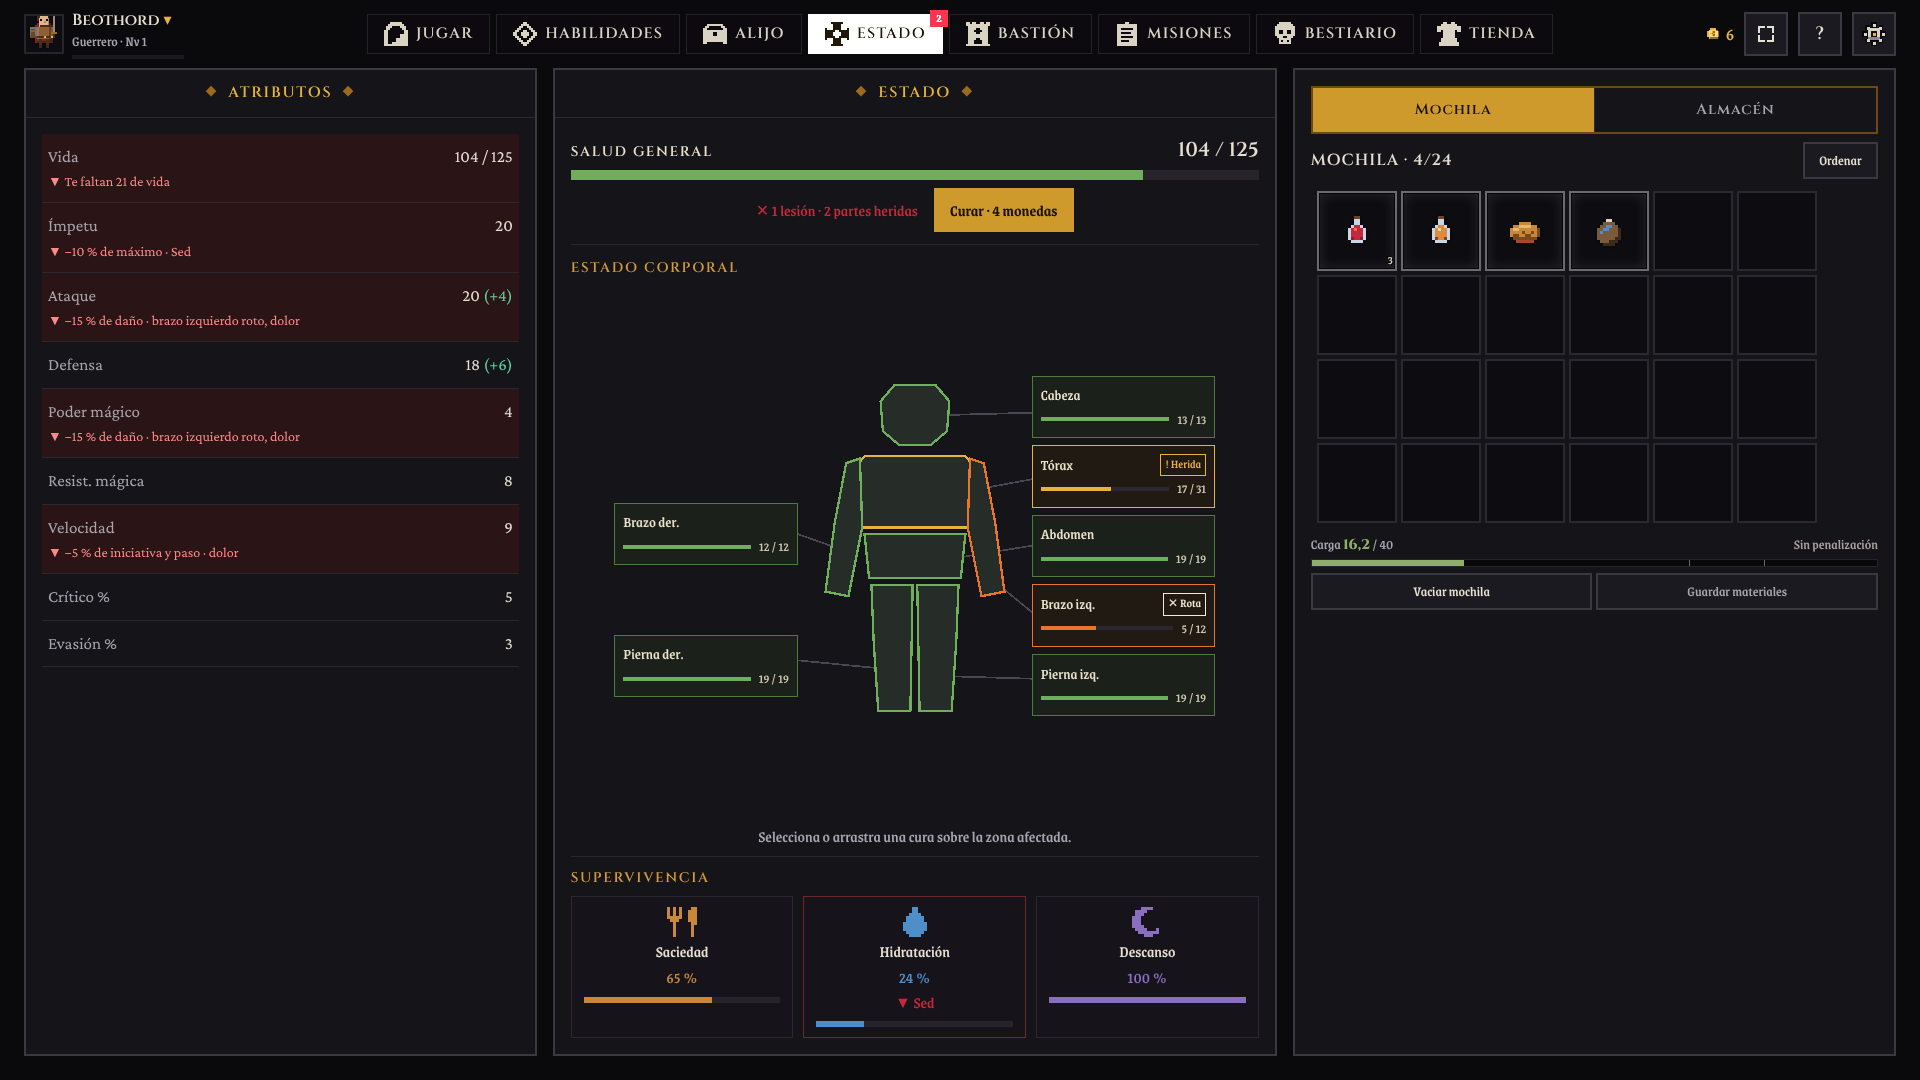
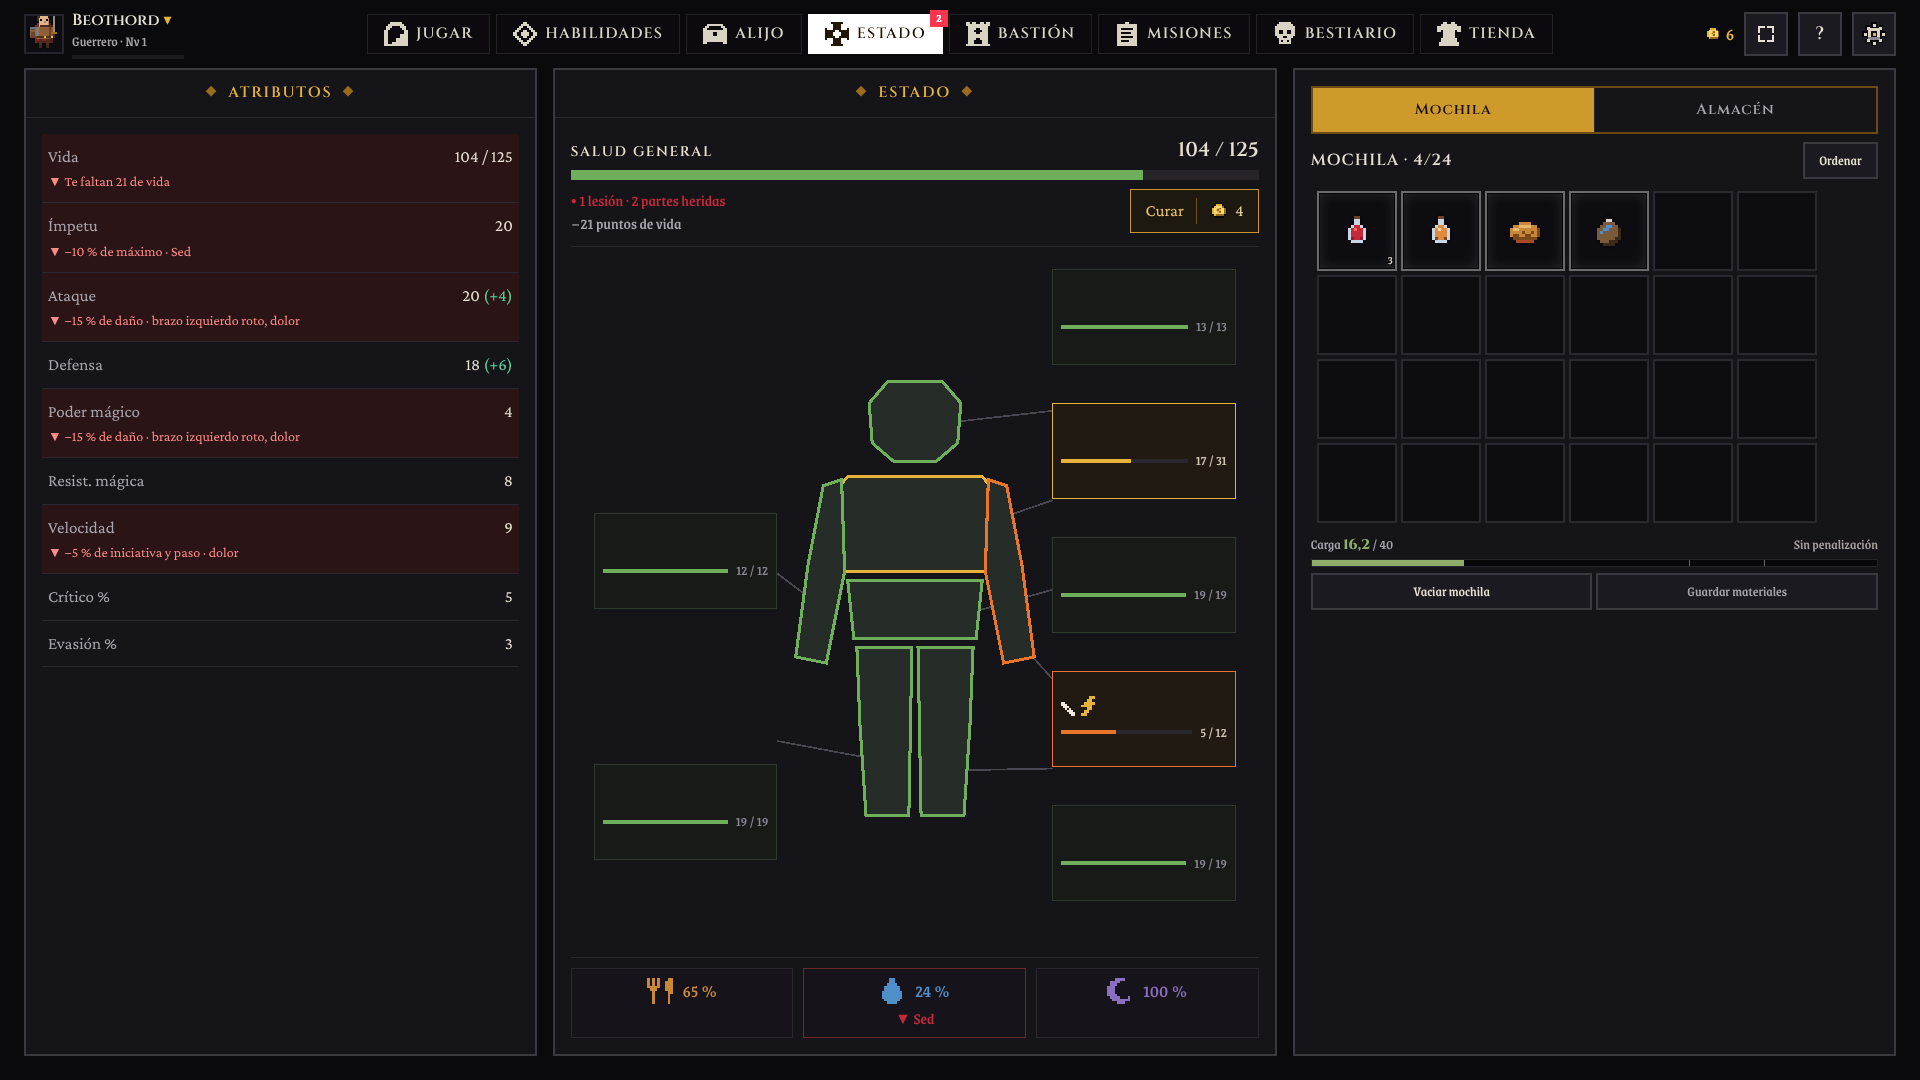
Gravevow (Vesrions 1.0.0.1)

diff --git a/src/game/ui/EstadoParts.tsx b/src/game/ui/EstadoParts.tsx
@@ -107,7 +107,7 @@ export function StatusTop({ body }: { body: Body }) {
   );
 }
 
-// Estado corporal: silueta plana (escala del lienzo 600 × 300) y una ficha por parte unida con una línea.
+// Estado corporal: silueta plana (coordenadas base de 600 × 300, ver K) y una ficha por parte unida con una línea.
 const SIL: Record<Region, string> = {
   head: '282,8 318,8 330,22 328,48 314,60 286,60 272,48 270,22',
   thorax: '256,70 344,70 356,84 350,132 250,132 244,84',
@@ -117,42 +117,81 @@ const SIL: Record<Region, string> = {
   legR: '262,182 298,182 296,292 268,292 264,232',
   legL: '302,182 338,182 336,232 332,292 304,292',
 };
+// Lienzo de 600 × 400 (27/11): la silueta se dibuja con las coordenadas de 600 × 300 y se agranda ×4/3 desde el centro.
+const K = 4 / 3, SX = (x: number) => 300 + (x - 300) * K, SY = (y: number) => y * K;
 const CARD: Record<Region, { x: number; y: number; to: [number, number] }> = {
-  head: { x: 402, y: 6, to: [328, 34] }, thorax: { x: 402, y: 64, to: [348, 100] }, abdomen: { x: 402, y: 122, to: [340, 158] },
-  armL: { x: 402, y: 180, to: [368, 178] }, legL: { x: 402, y: 238, to: [334, 262] },
-  armR: { x: 38, y: 112, to: [232, 150] }, legR: { x: 38, y: 222, to: [280, 256] },
+  head: { x: 420, y: 8, to: [SX(328), SY(34)] }, thorax: { x: 420, y: 86, to: [SX(348), SY(100)] }, abdomen: { x: 420, y: 164, to: [SX(340), SY(158)] },
+  armL: { x: 420, y: 242, to: [SX(368), SY(178)] }, legL: { x: 420, y: 320, to: [SX(334), SY(262)] },
+  armR: { x: 20, y: 150, to: [SX(232), SY(150)] }, legR: { x: 20, y: 296, to: [SX(280), SY(256)] },
 };
-const CW = 160, CH = 52;
-const CARD_NAME: Record<Region, string> = { head: 'Cabeza', thorax: 'Tórax', abdomen: 'Abdomen', armR: 'Brazo der.', armL: 'Brazo izq.', legR: 'Pierna der.', legL: 'Pierna izq.' };
+const CW = 160, CH = 56;
 
-/** Cuerpo con fichas: tocar una ficha (o su parte) con una cura elegida la aplica; arrastrar una cura encima, también. */
+// Iconos de lesión en pixel art (27/11): gota (sangrado, con 1 o 2 marcas), hueso (fractura), rayo (dolor), inutilizada y operada.
+const ICO = {
+  bleed: ['...X...', '..XXX..', '.XXXXX.', 'XXXXXXX', 'XXXXXXX', '.XXXXX.', '..XXX..'],
+  frac: ['XX.....', 'XXX....', '.XXX...', '..X.X..', '...XXX.', '....XXX', '.....XX'],
+  pain: ['...XX', '..XX.', '.XXXX', 'XXXX.', '..XX.', '.XX..', 'XX...'],
+  off: ['..XXX..', '.X...X.', 'X...X.X', 'X..X..X', 'X.X...X', '.X...X.', '..XXX..'],
+  op: ['...X...', '...X...', '...X...', 'XXXXXXX', '...X...', '...X...', '...X...'],
+  plus: ['..XXX..', '..XXX..', 'XXXXXXX', 'XXXXXXX', 'XXXXXXX', '..XXX..', '..XXX..'],
+};
+/** Centro de cada parte en el lienzo (para la cruz «+» de la cura elegida). */
+const MID: Record<Region, [number, number]> = { head: [300, 34], thorax: [300, 100], abdomen: [300, 157], armR: [240, 140], armL: [360, 140], legR: [281, 240], legL: [319, 240] };
+
+/** Lesiones de una parte, en orden, con su icono y color (el dolor solo si no lo calma un analgésico). */
+function lesionsOf(body: Body, r: Region): { k: keyof typeof ICO; name: string; color: string; grade?: number }[] {
+  const p = body.parts[r];
+  const out: { k: keyof typeof ICO; name: string; color: string; grade?: number }[] = [];
+  if (p.bleed) out.push({ k: 'bleed', name: p.bleed === 2 ? 'Sangrado grave' : 'Sangrado leve', color: '#e0605a', grade: p.bleed });
+  if (p.fracture) out.push({ k: 'frac', name: 'Fractura', color: '#f2ead8' });
+  if (isDisabled(body, r)) out.push({ k: 'off', name: 'Inutilizada', color: '#a8a0b0' });
+  if ((p.fracture || isDisabled(body, r)) && !body.painFree) out.push({ k: 'pain', name: 'Dolor', color: '#e8b33a' });
+  if (p.operated) out.push({ k: 'op', name: 'Operada', color: '#8fc0e0' });
+  return out;
+}
+
+/** Cuerpo: silueta y una ficha sin nombre por parte (iconos de lesión, barra y vida). Con una cura elegida o arrastrada,
+ *  las partes donde sirve llevan una cruz «+» y borde dorado; tocar la ficha o la parte la aplica. El nombre y el detalle,
+ *  en el tooltip y en la etiqueta accesible. */
 export function BodyMap({ body, shown, onPick }: { body: Body; shown: string | null; onPick: (r: Region) => void }) {
-  const drop = (r: Region) => (shown ? (usefulOn(body, shown, r) ? 'yes' : 'no') : null);
+  const ok = (r: Region) => !!shown && usefulOn(body, shown, r);
   return (
     <div className="bmap" data-testid="body-map">
-      <svg viewBox="0 0 600 300" className="bmap-svg" shapeRendering="crispEdges" aria-hidden>
+      <svg viewBox="0 0 600 400" className="bmap-svg" shapeRendering="crispEdges" aria-hidden>
         {REGIONS.map((r) => {
-          const c = CARD[r], left = c.x < 300;
-          const d = drop(r);
+          const c = CARD[r], left = c.x < 300, on = ok(r);
           return (
-            <g key={r} className={d ? `bmap-${d}` : undefined}>
-              <line x1={left ? c.x + CW : c.x} y1={c.y + CH / 2} x2={c.to[0]} y2={c.to[1]} stroke={d === 'yes' ? '#e8b33a' : '#4a4652'} strokeWidth={1.5} />
-              <polygon points={SIL[r]} fill={d === 'yes' ? '#3a2f17' : '#262c27'} stroke={isDisabled(body, r) ? '#6b6470' : regionColor(body, r)} strokeWidth={2} onClick={() => onPick(r)} style={{ cursor: 'pointer', pointerEvents: 'all' }} />
+            <g key={r}>
+              <line x1={left ? c.x + CW : c.x} y1={c.y + CH / 2} x2={c.to[0]} y2={c.to[1]} stroke={on ? '#e8b33a' : '#4a4652'} strokeWidth={1.5} />
+              <polygon transform={`translate(300 0) scale(${K}) translate(-300 0)`} points={SIL[r]} fill={on ? '#3a2f17' : '#262c27'} stroke={on ? '#e8b33a' : isDisabled(body, r) ? '#6b6470' : regionColor(body, r)} strokeWidth={on ? 3 : 2} onClick={() => onPick(r)} style={{ cursor: 'pointer', pointerEvents: 'all' }} />
             </g>
           );
         })}
+        {REGIONS.filter(ok).map((r) => (
+          <g key={r} transform={`translate(${SX(MID[r][0]) - 12} ${SY(MID[r][1]) - 12}) scale(3.4)`} style={{ pointerEvents: 'none' }}>
+            {ICO.plus.flatMap((row, y) => [...row].map((ch, x) => (ch === 'X' ? <rect key={`${x}-${y}`} x={x} y={y} width={1} height={1} fill="#e8b33a" /> : null)))}
+          </g>
+        ))}
       </svg>
       {REGIONS.map((r) => {
         const c = CARD[r], p = body.parts[r], cap = regionCap(body, r), max = regionMaxes(body.total)[r];
-        const w = regionWord(body, r), d = drop(r);
+        const les = lesionsOf(body, r);
+        const hurt = les.length > 0 || p.hp < max;
+        const on = ok(r), d = shown ? (on ? 'yes' : 'no') : null;
+        const tip = [`${REGION_NAME[r]}: ${p.hp} / ${cap}`, ...les.map((l) => l.name)].join(' · ');
         return (
-          <button key={r} type="button" className={`bmap-card ${w.cls !== 'ok' ? 'hurt' : ''} ${d === 'yes' ? 'drop-yes' : d === 'no' ? 'drop-no' : ''}`}
-            style={{ left: `${(c.x / 600) * 100}%`, top: `${(c.y / 300) * 100}%`, width: `${(CW / 600) * 100}%`, height: `${(CH / 300) * 100}%`, ['--rc' as string]: regionColor(body, r) }}
-            data-drop={JSON.stringify({ type: 'body', region: r })} onClick={() => onPick(r)}
-            aria-label={`${REGION_NAME[r]}: ${p.hp} de ${cap}. ${w.word}`} data-testid={`body-row-${r}`}>
-            <span className="bmap-name">{CARD_NAME[r]}{w.cls !== 'ok' && <span className={`doll-word ${w.cls}`} data-testid={`body-state-${r}`} title={w.word}>{w.ico}<span className="dw-t"> {w.word}</span></span>}</span>
+          <button key={r} type="button" className={`bmap-card ${hurt ? 'hurt' : 'ok'} ${d === 'yes' ? 'drop-yes' : d === 'no' ? 'drop-no' : ''}`}
+            style={{ left: `${(c.x / 600) * 100}%`, top: `${(c.y / 400) * 100}%`, width: `${(CW / 600) * 100}%`, height: `${(CH / 400) * 100}%`, ['--rc' as string]: regionColor(body, r) }}
+            data-drop={JSON.stringify({ type: 'body', region: r })} onClick={() => onPick(r)} title={tip} aria-label={tip} data-testid={`body-row-${r}`}>
+            <span className="bmap-ico" data-testid={`body-state-${r}`} data-state={regionWord(body, r).cls}>
+              {les.map((l) => (
+                <span key={l.k} className="bmap-l" title={l.name}>
+                  <PixelIcon rows={ICO[l.k]} size={14} color={l.color} label={l.name} />
+                  {l.grade && <span className="bmap-g">{[1, 2].map((g) => <i key={g} style={{ background: g <= l.grade! ? l.color : '#3a3741' }} />)}</span>}
+                </span>
+              ))}
+            </span>
             <span className="bmap-row"><span className="bmap-bar"><i style={{ width: `${(p.hp / Math.max(1, max)) * 100}%`, background: regionColor(body, r) }} /></span><span className="bmap-hp">{p.hp} / {cap}</span></span>
-            {d === 'yes' && <span className="doll-apply" aria-hidden>◆ Aplicar aquí</span>}
           </button>
         );
       })}

diff --git a/mockups/estado-silueta/mock.html b/mockups/estado-silueta/mock.html
@@ -1,0 +1,63 @@
+<!DOCTYPE html><html lang="es"><head><meta charset="utf-8"><title>Estado · silueta</title>
+<link rel="stylesheet" href="/node_modules/@fontsource/cinzel/index.css"><link rel="stylesheet" href="/node_modules/@fontsource/grenze/index.css">
+<style>
+*{box-sizing:border-box;margin:0}body{background:#0a090c;color:#e9e1cc;font-family:Grenze,Georgia,serif;display:flex;justify-content:center;align-items:flex-start;padding:16px}
+.panel{border:2px solid #2a2730;background:#121015;width:720px;padding:18px 20px;display:flex;flex-direction:column;gap:12px}
+.ph{font-family:Cinzel;letter-spacing:.14em;color:#e8b33a;text-align:center;font-size:16px;margin:-4px 0 6px}
+.cap{font-family:Cinzel;letter-spacing:.12em;font-size:15px}
+.h{display:flex;justify-content:space-between;align-items:baseline}.big{font-family:Cinzel;font-size:22px}
+.hp{height:10px;background:#26232a}.hp i{display:block;height:100%;background:#6fae5a}
+.h2{display:flex;justify-content:space-between;align-items:center;min-height:44px}
+.red{color:#e0605a}.mut{color:#a8a090;font-size:14px}
+.cure{display:inline-flex;align-items:center;gap:12px;min-height:44px;padding:0 14px;background:#1d1910;border:1px solid #c9952e;color:#e8c46a;font-size:17px}
+.sep{width:1px;align-self:stretch;margin:8px 0;background:#6b5420}
+.map{position:relative;height:420px;border-top:1px solid #2a2730;border-bottom:1px solid #2a2730}
+svg.sil{position:absolute;left:50%;top:10px;transform:translateX(-50%);height:400px}
+.tag{position:absolute;display:flex;flex-direction:column;align-items:center;gap:3px;transform:translate(-50%,-50%);pointer-events:none}
+.tag b{font-size:16px}.bar{width:46px;height:4px;background:#2a2730}.bar i{display:block;height:100%}
+.icons{display:flex;gap:6px}.ico{display:flex;flex-direction:column;align-items:center;gap:2px}.grade{display:flex;gap:2px}.grade i{width:5px;height:3px}
+.cross{position:absolute;transform:translate(-50%,-50%);width:26px;height:26px}
+.tip{position:absolute;width:250px;border:2px solid #e8b33a;background:#16130e;padding:10px 12px;font-size:15px;display:flex;flex-direction:column;gap:6px}
+.tip .t{display:flex;justify-content:space-between;font-family:Cinzel;color:#e8b33a;letter-spacing:.08em}
+.tip hr{border:none;border-top:1px solid #2a2730}
+.needs{display:grid;grid-template-columns:repeat(3,1fr);gap:10px}.need{border:1px solid #2a2730;background:#16141a;display:flex;justify-content:center;align-items:center;gap:10px;padding:8px;font-size:17px}
+/* móvil: panel central de 844 × 390 */
+body.movil .panel{width:420px;padding:8px 10px;gap:4px}body.movil .ph{display:none}body.movil .big{font-size:16px}body.movil .cap{font-size:12px}
+body.movil .hp{height:6px}body.movil .h2{font-size:13px}body.movil .cure{font-size:14px;padding:0 10px;gap:8px}
+body.movil .map{height:186px}body.movil svg.sil{height:176px;top:5px}body.movil .tag b{font-size:11px}body.movil .bar{width:30px;height:3px}
+body.movil .need{padding:2px;font-size:13px}body.movil .tip{width:190px;font-size:12px;padding:6px 8px;gap:3px}
+</style></head><body><div id="app"></div><script>
+const q=new URLSearchParams(location.search),caso=q.get('caso')||'herido',mov=q.get('disp')==='movil';if(mov)document.body.classList.add('movil');
+const PX=(rows,c,s)=>{const w=rows[0].length;let r='';rows.forEach((row,y)=>[...row].forEach((ch,x)=>{if(ch!=='.')r+=`<rect x="${x}" y="${y}" width="1" height="1" fill="${ch==='W'?'#f2ead8':c}"/>`}));return `<svg width="${w*s}" height="${rows.length*s}" viewBox="0 0 ${w} ${rows.length}" shape-rendering="crispEdges">${r}</svg>`};
+const DROP=['...X...','..XXX..','.XXXXX.','XXXXXXX','XXXXXXX','.XXXXX.','..XXX..'];
+const BONE=['XX.....','XXX....','.XXX...','..X.X..','...XXX.','....XXX','.....XX'];
+const BOLT=['...XX','..XX.','.XXXX','XXXX.','..XX.','.XX..','XX...'];
+const CROSS=['..XXX..','..XWX..','XXXWXXX','XWWWWWX','XXXWXXX','..XWX..','..XXX..'];
+const SIL={head:'282,8 318,8 330,22 328,48 314,60 286,60 272,48 270,22',thorax:'256,70 344,70 356,84 350,132 250,132 244,84',abdomen:'256,138 344,138 340,176 260,176',armR:'240,76 252,72 254,132 242,192 222,188 230,128',armL:'360,76 348,72 346,132 358,192 378,188 370,128',legR:'262,182 298,182 296,292 268,292 264,232',legL:'302,182 338,182 336,232 332,292 304,292'};
+const MAX={head:13,thorax:31,abdomen:19,armR:12,armL:12,legR:19,legL:19};
+const NAME={head:'Cabeza',thorax:'Tórax',abdomen:'Abdomen',armR:'Brazo derecho',armL:'Brazo izquierdo',legR:'Pierna derecha',legL:'Pierna izquierda'};
+const sano=caso==='sano';
+const hp=sano?{...MAX}:{head:13,thorax:17,abdomen:19,armR:3,armL:12,legR:11,legL:19};
+const W=sano?{}:{armR:{bleed:2,frac:1,pain:1},thorax:{bleed:1},legR:{frac:1,pain:1}};
+const col=(r)=>{const p=hp[r]/MAX[r];return p>.75?'#6fae5a':p>.45?'#e8b33a':p>.2?'#e8752b':'#d23a3a'};
+const fill=(r)=>{const p=hp[r]/MAX[r];return p>.75?'#262c27':p>.45?'#3a3218':p>.2?'#3a2418':'#3a1a1a'};
+const cura=caso==='cura'?['armR','legR']:[];// férula: solo donde hay fractura
+const hover=caso==='detalle'?'armR':null;
+// posición de la marca de cada parte (en unidades 600×300 del lienzo)
+const AT={head:[300,34],thorax:[300,102],abdomen:[300,157],armR:[208,132],armL:[392,132],legR:[248,250],legL:[352,250]};
+const H=mov?176:400,SC=H/300,OX=0;
+let svg=`<svg class="sil" viewBox="210 0 180 300" shape-rendering="crispEdges">`;
+for(const r in SIL){const on=cura.includes(r),dim=cura.length&&!on;svg+=`<polygon points="${SIL[r]}" fill="${fill(r)}" stroke="${on||hover===r?'#e8b33a':col(r)}" stroke-width="${on||hover===r?3:2}" opacity="${dim?.4:1}"/>`}
+svg+='</svg>';
+const mapW=mov?400:676;const sx=(x)=>mapW/2+(x-300)*SC,sy=(y)=>(mov?5:10)+y*SC;
+let tags='';
+for(const r in SIL){const hurt=hp[r]<MAX[r]||W[r];if(!hurt)continue;const [x,y]=AT[r];const w=W[r]||{};const s=mov?2:3;
+ let ic='';if(w.bleed)ic+=`<span class="ico">${PX(DROP,'#e0605a',s)}<span class="grade">${[1,2].map(g=>`<i style="background:${g<=w.bleed?'#e0605a':'#3a3741'}"></i>`).join('')}</span></span>`;
+ if(w.frac)ic+=`<span class="ico">${PX(BONE,'#f2ead8',s)}</span>`;if(w.pain)ic+=`<span class="ico">${PX(BOLT,'#e8b33a',s)}</span>`;
+ tags+=`<div class="tag" style="left:${mov?mapW/2+(x-300)*SC*1.9:sx(x)}px;top:${sy(y)}px"><b style="color:${col(r)}">${hp[r]}/${MAX[r]}</b><span class="bar"><i style="width:${hp[r]/MAX[r]*100}%;background:${col(r)}"></i></span><span class="icons">${ic}</span></div>`}
+for(const r of cura){const c={armR:[236,170],legR:[282,270]}[r];tags+=`<div class="cross" style="left:${sx(c[0])}px;top:${sy(c[1])}px">${PX(CROSS,'#e8b33a',mov?3:4)}</div>`}
+if(hover){tags+=`<div class="tip" style="left:${mov?6:40}px;top:${mov?10:150}px"><div class="t"><span>BRAZO DERECHO</span><span class="red">3 / 12</span></div><div class="hp" style="height:4px"><i style="width:25%;background:#d23a3a"></i></div><hr><span class="red">${PX(DROP,'#e0605a',2)} Sangrado grave</span><span>${PX(BONE,'#f2ead8',2)} Fractura</span><span style="color:#e8b33a">${PX(BOLT,'#e8b33a',2)} Dolor</span><hr><span class="red">▼ −15 % de daño (fractura y dolor)</span><span class="mut">Curas: torniquete o hemostático · férula</span></div>`}
+const cab=`<div class="h"><span class="cap">SALUD GENERAL</span><span class="big">${sano?'125 / 125':'98 / 125'}</span></div><div class="hp"><i style="width:${sano?100:78}%"></i></div>`+(sano?'':`<div class="h2"><div><div class="red">● 3 lesiones · 3 partes heridas</div><div class="mut">−27 puntos de vida</div></div><span class="cure">Curar<span class="sep"></span>● 7</span></div>`);
+const needs=`<div class="needs"><div class="need" style="color:#c9873a">🍴 100 %</div><div class="need" style="color:#4f8fc9">💧 24 %</div><div class="need" style="color:#8a6fc0">☾ 70 %</div></div>`;
+document.getElementById('app').innerHTML=`<div class="panel">${mov?'':'<div class="ph">◆ ESTADO ◆</div>'}${cab}<div class="map">${svg}${tags}</div>${needs}</div>`;
+</script></body></html>

diff --git a/src/game/game.css b/src/game/game.css
@@ -1777,11 +1777,14 @@ div.hb-acard{cursor:default}
 .estado-cure-price{display:inline-flex;align-items:center;gap:6px;color:#f0d9a0}
 .estado-cure.off{background:#17151a;border-color:#3a3741;color:#8c8693;cursor:not-allowed}.estado-cure.off .estado-cure-sep{background:#3a3741}.estado-cure.off .estado-cure-price{color:#e0605a}
 .estado-doll{min-height:200px;padding:8px 0 14px}
-.bmap{position:relative;aspect-ratio:2/1;height:100%;max-height:360px;max-width:100%}
+.bmap{position:relative;aspect-ratio:3/2;height:100%;max-width:100%}
 .bmap-svg{position:absolute;inset:0;width:100%;height:100%}
 .bmap-card{position:absolute;display:flex;flex-direction:column;justify-content:center;gap:3px;padding:2px 8px;background:#1b211a;border:1px solid #4d7a3d;color:#e9e1cc;font:inherit;text-align:left;min-height:0;cursor:pointer}
 .bmap-card:hover{filter:brightness(1.15)}.bmap-card.hurt{border-color:var(--rc);background:#211a12}
-.bmap-card.drop-yes{border:2px dashed #e8b33a;background:#2a2112;box-shadow:0 0 0 2px #e8b33a55}.bmap-card.drop-no{opacity:.35}
+.bmap-card.ok{border-color:#2f3a2c;background:#171a17}.bmap-card.ok .bmap-hp{color:#8c8693}
+.bmap-card.drop-yes{border:1px solid #e8b33a;background:#2a2112}
+.bmap-ico{display:flex;gap:6px;align-items:flex-end;min-height:14px}.bmap-l{display:inline-flex;flex-direction:column;align-items:center;gap:1px}
+.bmap-g{display:flex;gap:1px}.bmap-g i{width:4px;height:2px}
 .bmap-name{display:flex;justify-content:space-between;gap:6px;font-size:15px;white-space:nowrap}
 .bmap-row{display:flex;align-items:center;gap:8px}.bmap-bar{flex:1;height:4px;background:#2a2730}.bmap-bar i{display:block;height:100%}
 .bmap-hp{font-size:13px;color:#cfc6b2;white-space:nowrap}
@@ -1805,3 +1808,5 @@ div.hb-acard{cursor:default}
 .is-touch .bmap-card::after{content:'';position:absolute;inset:-4px 0}
 .bmap-card{container-type:inline-size}.bmap-name{min-width:0}
 @container (max-width:150px){.dw-t{display:none}}
+.estado-phone .bmap-ico{min-height:9px;gap:3px}.estado-phone .bmap-ico svg{width:9px;height:9px}.estado-phone .bmap-g i{width:3px}
+.bmap-card{gap:6px}.bmap-hp{font-size:14px}

diff --git a/mockups/estado-silueta/index.html b/mockups/estado-silueta/index.html
@@ -1,0 +1,9 @@
+<!DOCTYPE html><html lang="es"><head><meta charset="utf-8"><title>Estado · silueta (mockup)</title>
+<style>body{background:#0a090c;color:#e9e1cc;font-family:Georgia,serif;padding:24px;max-width:1500px;margin:auto}h2{color:#e8b33a;margin-top:28px}img{border:1px solid #333;margin:6px 12px 6px 0;vertical-align:top}p{color:#cfc6b2;max-width:900px}</style></head><body>
+<h1>ESTADO · silueta sin fichas (propuesta 2 adaptada)</h1>
+<p>Partes sanas en verde y sin números. Partes heridas: color según su vida, valor, barrita e iconos de lesión (gota con 1 o 2 marcas = sangrado leve o grave; hueso = fractura; rayo = dolor). Una cura elegida pone una cruz solo en las partes donde sirve. Tocar o pasar el ratón por una parte abre su detalle. Mockup interactivo: <code>mock.html?caso=sano|herido|cura|detalle&amp;disp=escritorio|movil</code>.</p>
+<h2>Escritorio (columna central)</h2>
+<img src="capturas/escritorio-sano.png"><img src="capturas/escritorio-herido.png"><img src="capturas/escritorio-cura.png"><img src="capturas/escritorio-detalle.png">
+<h2>Móvil (panel central de 844 × 390)</h2>
+<img src="capturas/movil-sano.png"><img src="capturas/movil-herido.png"><img src="capturas/movil-cura.png"><img src="capturas/movil-detalle.png">
+</body></html>
